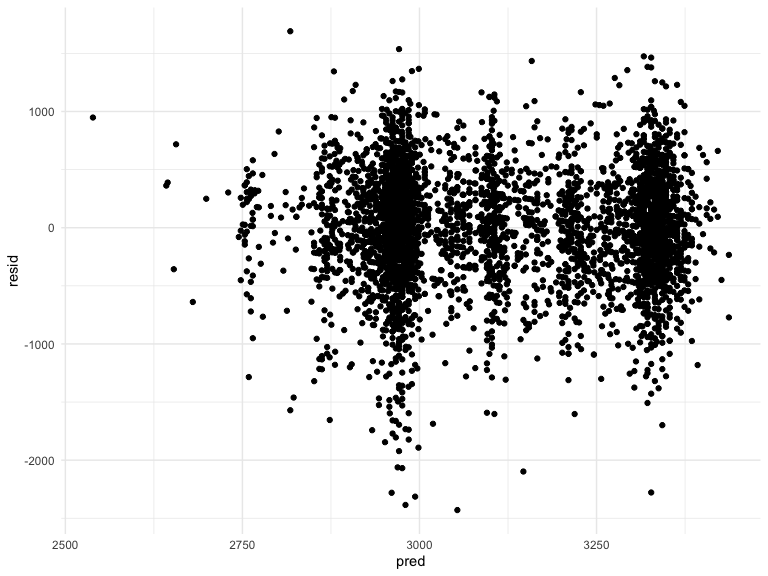
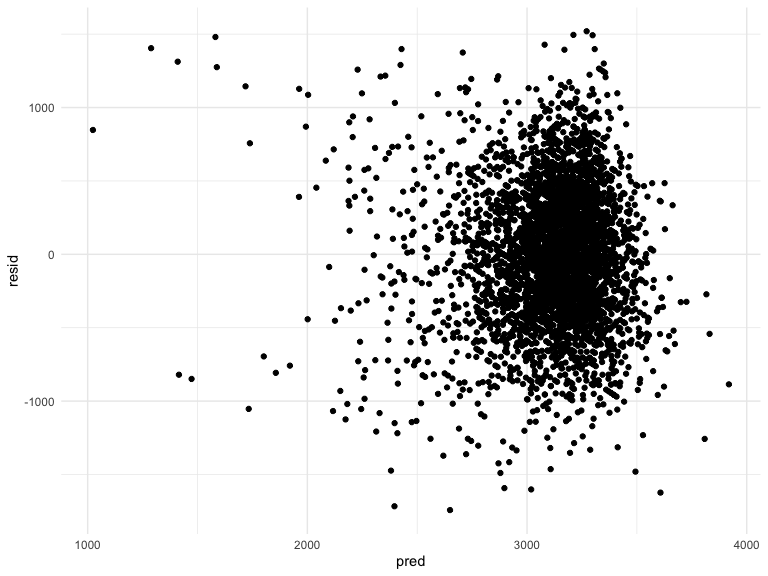
Complete code for both problems - need to label plots and provide answers in words

diff --git a/p8105_hw6_md3851.md b/p8105_hw6_md3851.md
@@ -27,7 +27,7 @@ bwt_data = read_csv("./data/birthweight.csv") %>%
     ## See spec(...) for full column specifications.
 
 ``` r
-model_1 = lm(bwt ~ mrace + momage + smoken + mrace*momage + mrace*smoken + momage*smoken, data = bwt_data)
+model_1 = lm(bwt ~ gaweeks + wtgain + gaweeks*wtgain, data = bwt_data)
 
 bwt_data %>% 
   add_residuals(model_1) %>%
@@ -49,10 +49,9 @@ cv_df =
   crossv_mc(bwt_data, 100)
 
 cv_df = cv_df %>% 
-  mutate(model_1  = map(train, ~lm(bwt ~ mrace + momage + smoken + mrace*momage + 
-         mrace*smoken + momage*smoken, data = .x)),
+  mutate(model_1  = map(train, ~lm(bwt ~ gaweeks + wtgain + gaweeks*wtgain, data = .x)),
          model_2  = map(train, ~lm(bwt ~ blength + gaweeks, data = .x)),
-         model_3  = map(train, ~lm(bwt ~ blength + gaweeks, data = bwt_data))) %>% 
+         model_3  = map(train, ~lm(bwt ~ bhead + blength + babysex +  bhead*blength + bhead*babysex + blength*babysex + bhead*blength*babysex, data = .x))) %>% 
   mutate(rmse_1 = map2_dbl(model_1, test, ~rmse(model = .x, data = .y)),
          rmse_2 = map2_dbl(model_2, test, ~rmse(model = .x, data = .y)),
          rmse_3 = map2_dbl(model_3, test, ~rmse(model = .x, data = .y)))
@@ -74,3 +73,123 @@ cv_plot
 
 Problem 2
 =========
+
+``` r
+weather_df = 
+  rnoaa::meteo_pull_monitors(
+    c("USW00094728"),
+    var = c("PRCP", "TMIN", "TMAX"), 
+    date_min = "2017-01-01",
+    date_max = "2017-12-31") %>%
+  mutate(
+    name = recode(id, USW00094728 = "CentralPark_NY"),
+    tmin = tmin / 10,
+    tmax = tmax / 10) %>%
+  select(name, id, everything())
+```
+
+    ## Registered S3 method overwritten by 'crul':
+    ##   method                 from
+    ##   as.character.form_file httr
+
+    ## Registered S3 method overwritten by 'hoardr':
+    ##   method           from
+    ##   print.cache_info httr
+
+    ## file path:          /Users/misbath/Library/Caches/rnoaa/ghcnd/USW00094728.dly
+
+    ## file last updated:  2019-09-26 10:25:42
+
+    ## file min/max dates: 1869-01-01 / 2019-09-30
+
+``` r
+boot_straps_tidy = weather_df %>% 
+  bootstrap(n=5000) %>% 
+  mutate(models = map(strap, ~lm(tmax ~ tmin, data = .x)),
+         results = map(models, broom::tidy)) %>% 
+  select(-strap, -models) %>% 
+  unnest(results) %>% 
+  select(-std.error, -statistic, -p.value) %>%
+  pivot_wider(
+    names_from = term,
+    values_from = estimate
+  ) %>% 
+  rename(beta1 = tmin, beta0 = `(Intercept)`) %>% 
+  mutate(log = log(beta0*beta1))
+
+boot_straps_tidy
+```
+
+    ## # A tibble: 5,000 x 4
+    ##    .id   beta0 beta1   log
+    ##    <chr> <dbl> <dbl> <dbl>
+    ##  1 0001   7.12  1.03  2.00
+    ##  2 0002   7.12  1.03  1.99
+    ##  3 0003   7.60  1.01  2.04
+    ##  4 0004   7.40  1.03  2.03
+    ##  5 0005   7.17  1.06  2.03
+    ##  6 0006   7.31  1.05  2.04
+    ##  7 0007   7.10  1.04  2.00
+    ##  8 0008   6.65  1.08  1.97
+    ##  9 0009   7.18  1.05  2.02
+    ## 10 0010   7.02  1.06  2.01
+    ## # … with 4,990 more rows
+
+``` r
+boot_straps_glance = weather_df %>% 
+  bootstrap(n=5000) %>% 
+  mutate(models = map(strap, ~lm(tmax ~ tmin, data = .x) ),
+         results = map(models, broom::glance)) %>% 
+  select(-strap, -models) %>% 
+  unnest(results) %>% 
+  select(.id, r.squared)
+
+boot_straps_glance
+```
+
+    ## # A tibble: 5,000 x 2
+    ##    .id   r.squared
+    ##    <chr>     <dbl>
+    ##  1 0001      0.898
+    ##  2 0002      0.914
+    ##  3 0003      0.914
+    ##  4 0004      0.921
+    ##  5 0005      0.910
+    ##  6 0006      0.902
+    ##  7 0007      0.925
+    ##  8 0008      0.920
+    ##  9 0009      0.901
+    ## 10 0010      0.922
+    ## # … with 4,990 more rows
+
+``` r
+log_plot = boot_straps_tidy %>% 
+  ggplot(aes(x = log)) +
+         geom_density()
+log_plot
+```
+
+<img src="p8105_hw6_md3851_files/figure-markdown_github/plots-1.png" width="90%" />
+
+``` r
+r_sq_plot = boot_straps_glance %>% 
+  ggplot(aes(x = r.squared)) +
+         geom_density()
+r_sq_plot 
+```
+
+<img src="p8105_hw6_md3851_files/figure-markdown_github/plots-2.png" width="90%" />
+
+``` r
+quantile(pull(boot_straps_tidy, log), probs =c(0.025, 0.975))
+```
+
+    ##     2.5%    97.5% 
+    ## 1.966835 2.058417
+
+``` r
+quantile(pull(boot_straps_glance, r.squared), probs =c(0.025, 0.975))
+```
+
+    ##      2.5%     97.5% 
+    ## 0.8935228 0.9269732
